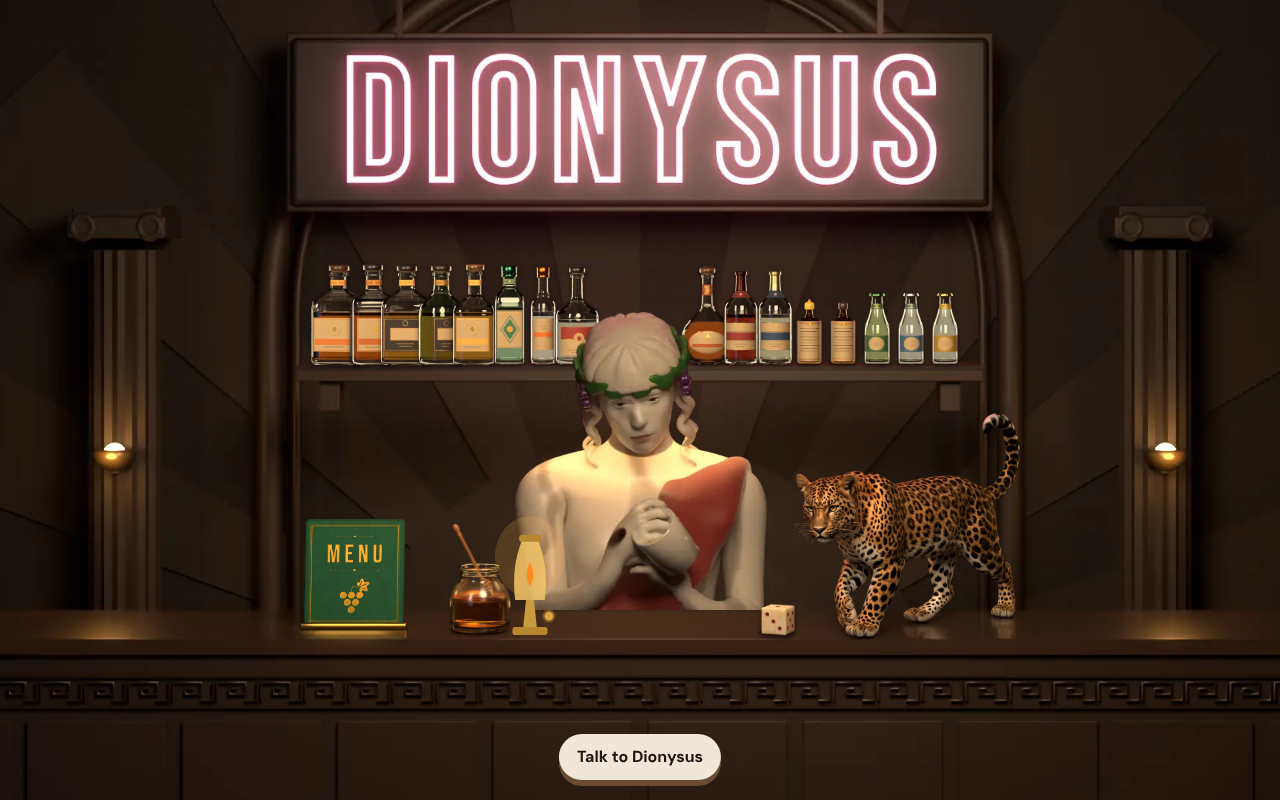
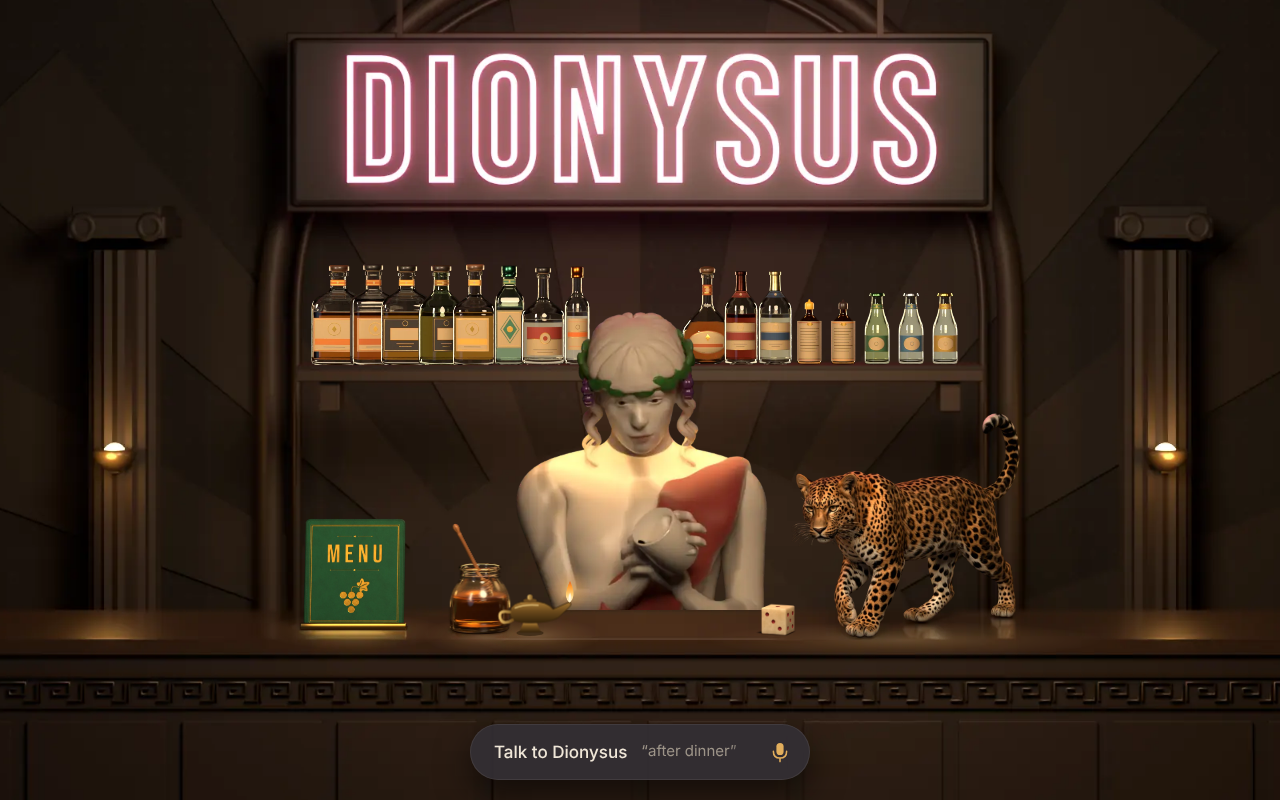
Prototype E: touchables without silhouette glow; the lamp becomes a brass oil lamp
- The rendered glass bottles, jar, menu and die no longer get anything that
  traces their silhouette (no drop-shadow rim, glow or pulse filter): a
  slight brightness lift, the lamplight pool beneath and the press lift do
  the work. Focus stays a gold rounded rect round the hit area. Dionysus
  gets a slight brightness lift only.
- The settings lamp beside the honey jar is redrawn from app.js as a small
  dark-brass oil lamp with a gradient teardrop flame and a soft halo; the
  flame flickers gently, still under reduced motion. #lamp keeps its role,
  label, tabindex and transform; the old shapes are hidden by CSS.
- Shots regenerated after merging the realistic bar items; touch-*.jpg in
  shots/halo show rest, hover, focus and hint states.

Claude-Session: https://claude.ai/code/session_017R8H9iatqLJtjbxy9HG2GV

diff --git a/prototypes/e-rendered/style.css b/prototypes/e-rendered/style.css
@@ -30,13 +30,14 @@ svg.ghost{opacity:.3}
    and a press lifts the thing a little, as if picked up. Focus gets a clear gold ring. */
 .touch{cursor:pointer;outline:none;-webkit-tap-highlight-color:transparent}
 .touch .lift{transform-box:fill-box;transform-origin:50% 100%;transition:transform .18s var(--e),filter .25s var(--e)}
-.touch:hover .lift,.touch:focus-visible .lift,.touch.lit .lift{filter:drop-shadow(0 0 1.5px rgba(255,226,180,1)) drop-shadow(0 0 2px rgba(255,214,150,.7)) drop-shadow(0 0 16px rgba(226,174,92,.5))}
+/* nothing traces the silhouette (it fringes the rendered glass like a sticker): a slight brightness lift, the lamplight pool beneath, the press lift */
+.touch:hover .lift,.touch:focus-visible .lift,.touch.lit .lift{filter:brightness(1.1)}
 .touch:active .lift,.touch.pressed .lift{transform:translateY(-3px) scale(1.025)}
 .touch .hit{fill:transparent;pointer-events:all}
 .touch .ring{fill:none;stroke:var(--acc);stroke-width:2px;vector-effect:non-scaling-stroke;display:none;pointer-events:none}
 .touch:focus-visible .ring{display:inline}
 .touch.hinting .lift{animation:pulse 1.5s 3}
-@keyframes pulse{50%{filter:drop-shadow(0 0 1.5px #ffdeaa) drop-shadow(0 0 12px rgba(226,174,92,.6))}}
+@keyframes pulse{50%{filter:brightness(1.16)}}
 .lpool{opacity:.3;mix-blend-mode:screen;transition:opacity .3s var(--e);pointer-events:none}
 #scene:has(#honey:is(:hover,:focus-visible,.lit,.hinting)) .lpool[data-for=honey],
 #scene:has(#menu:is(:hover,:focus-visible,.lit,.hinting)) .lpool[data-for=menu],
@@ -44,15 +45,14 @@ svg.ghost{opacity:.3}
 #scene:has(#panther:is(:hover,:focus-visible,.lit,.hinting)) .lpool[data-for=panther]{opacity:.9}
 /* Dionysus: rim only. He must stay sharp and unbleached (R10) */
 #dio{transition:filter .25s var(--e)}
-#dio:hover,#dio.lit{filter:drop-shadow(0 0 1px rgba(255,222,170,.85)) drop-shadow(0 0 5px rgba(226,174,92,.25))}
+#dio:hover,#dio.lit{filter:brightness(1.05)}
 #dio .ring{stroke-width:3px}
 /* the shelf: the bottles lift as one when it is touched; each keeps its own shadow */
 #shelf .lift{transform-origin:50% 100%}
 #shelf:active .lift,#shelf.pressed .lift{transform:translateY(-2px)}
-.btl image{filter:drop-shadow(0 2px 2px rgba(0,0,0,.5))}
 .btl.dusty image{filter:saturate(.3) brightness(.5)}
 @keyframes bdrop{from{transform:translateY(-60px);opacity:0}to{transform:none;opacity:1}}
-#dice image{filter:drop-shadow(0 3px 2px rgba(0,0,0,.6));transform-box:fill-box;transform-origin:50% 50%}
+#dice image{transform-box:fill-box;transform-origin:50% 50%}
 #panther:hover #dice image,#panther:focus-visible #dice image{animation:jig .5s var(--e)}
 @keyframes jig{30%{transform:translateY(-4px) rotate(-12deg)}60%{transform:rotate(5deg)}}
 #hints{position:absolute;inset:0;pointer-events:none;z-index:15}
@@ -487,3 +487,10 @@ svg.ghost{opacity:.3}
 /* sheets: the main buttons stay in view; the content scrolls under them */
 .sheet .row{position:sticky;bottom:-20px;z-index:2;margin:6px -26px -20px;padding:12px 26px 20px;background:linear-gradient(rgba(27,25,28,0),#1b191c 14px)}
 @media (max-width:640px){ .sheet .row{bottom:-14px;margin:6px -16px -14px;padding:12px 16px 14px} }
+
+/* the settings lamp: a small brass oil lamp with a live flame (the drawn lava lamp in index.html is hidden, not removed) */
+#lamp .lift>:not(.oil){display:none}
+#lamp .flame{transform-box:fill-box;transform-origin:50% 100%;animation:flick 2.6s ease-in-out infinite}
+#lamp .halo{animation:haloflick 2.6s ease-in-out infinite}
+@keyframes flick{0%,100%{transform:scale(1,1) skewX(0)}22%{transform:scale(.94,1.06) skewX(-3deg)}48%{transform:scale(1.03,.95) skewX(2deg)}71%{transform:scale(.97,1.04) skewX(-1deg)}}
+@keyframes haloflick{0%,100%{opacity:.55}30%{opacity:.68}60%{opacity:.5}}

diff --git a/prototypes/e-rendered/app.js b/prototypes/e-rendered/app.js
@@ -188,12 +188,28 @@ const LIFTED = ['honey', 'menu', 'lamp', 'panther'];
   el('stop', { offset: '0', 'stop-color': '#ffd08a', 'stop-opacity': '.75' }, gr); el('stop', { offset: '.55', 'stop-color': '#e2ae5c', 'stop-opacity': '.28' }, gr); el('stop', { offset: '1', 'stop-color': '#e2ae5c', 'stop-opacity': '0' }, gr);
   const wrap = (host, nodes) => { const g = el('g', { class: 'lift' }); host.insertBefore(g, nodes[0]); nodes.forEach(n => g.appendChild(n)); return g; };
   LIFTED.forEach(id => { const t = $('#' + id); wrap(t, [...t.children]); });
+  /* the lamp as a small brass oil lamp; the spout's flame is the one warm light on it */
+  const lg = (id, stops, attrs) => { const g = el(attrs.r ? 'radialGradient' : 'linearGradient', { id, ...attrs }, defs); stops.forEach(([o, c, op = 1]) => el('stop', { offset: o, 'stop-color': c, 'stop-opacity': op }, g)); };
+  lg('brassGrad', [['0', '#a97a36'], ['.45', '#6c4a1c'], ['1', '#36240b']], { x1: 0, y1: 0, x2: 0, y2: 1 });
+  lg('brassRim', [['0', '#e2b866'], ['1', '#7a5520']], { x1: 0, y1: 0, x2: 1, y2: 0 });
+  lg('flameGrad', [['0', '#fff6d6'], ['.35', '#ffd27a'], ['.75', '#ff9a2e'], ['1', '#e0561a', .85]], { x1: 0, y1: 1, x2: 0, y2: 0 });
+  lg('lampHalo', [['0', '#ffd07a', .9], ['.4', '#ffb050', .4], ['1', '#ff9a40', 0]], { r: '.5' });
+  const oil = el('g', { class: 'oil' }, $('#lamp .lift'));
+  oil.innerHTML = `<circle class="halo" cx="29" cy="-33" r="16" fill="url(#lampHalo)"/>
+    <ellipse cx="0" cy="-1.5" rx="10" ry="2.2" fill="#2a1c0c" opacity=".6"/>
+    <path d="M-8 -2 L-5 -9 H5 L8 -2 Z" fill="url(#brassGrad)"/>
+    <path d="M-15 -16 Q-15 -25 0 -25 Q13 -25 17 -19 L28 -24 Q31 -25 30 -21.5 L21 -13 Q15 -9 0 -9 Q-15 -9 -15 -16 Z" fill="url(#brassGrad)" stroke="#3a270e" stroke-width=".6"/>
+    <path d="M-11 -20 Q-4 -23 6 -22" fill="none" stroke="#f0cf86" stroke-width="1.1" stroke-linecap="round" opacity=".7"/>
+    <path d="M-15 -17 Q-24 -19 -22 -12 Q-20 -7 -13 -11" fill="none" stroke="url(#brassRim)" stroke-width="2.2" stroke-linecap="round"/>
+    <ellipse cx="0" cy="-25.5" rx="5" ry="1.6" fill="#6e4b1e"/><circle cx="0" cy="-28" r="2" fill="url(#brassRim)"/>
+    <path class="flame" d="M29.3 -24 C25.5 -27 26 -32 29.6 -40 C32.8 -33 33.4 -27.5 29.3 -24 Z" fill="url(#flameGrad)"/>
+    <path d="M29.4 -25 C28 -26.5 28.3 -29 29.6 -31.5 C30.8 -29 30.9 -26.6 29.4 -25 Z" fill="#fffbe8" opacity=".9"/>`;
   wrap($('#shelf'), [$('#bottles')]);
   [...LIFTED, 'shelf'].forEach(id => { const t = $('#' + id);
     t.insertBefore(el('rect', { class: 'hit' }), t.firstChild); t.appendChild(el('rect', { class: 'ring', rx: 8 })); });
   const pools = el('g', { id: 'pools', 'pointer-events': 'none' }); svg.insertBefore(pools, $('#counterThings'));
   LIFTED.forEach(id => {
-    const L = id === 'lamp' ? { x: 690 - 18, y: 655 - 100, w: 36, h: 100 } : id === 'panther' ? LAYERS.touch.panther : LAYERS.touch[id];
+    const L = id === 'lamp' ? { x: 690 - 22 * 1.35, y: 655 - 40 * 1.35, w: 55 * 1.35, h: 40 * 1.35 } : id === 'panther' ? LAYERS.touch.panther : LAYERS.touch[id];
     el('ellipse', { class: 'lpool', 'data-for': id, cx: L.x + L.w / 2, cy: L.y + L.h + 1, rx: Math.max(56, L.w * .85), ry: 18, fill: 'url(#poolGrad)' }, pools);
   });
   /* press: lift a little; keyboard: Enter or Space acts like a tap on any touchable */
